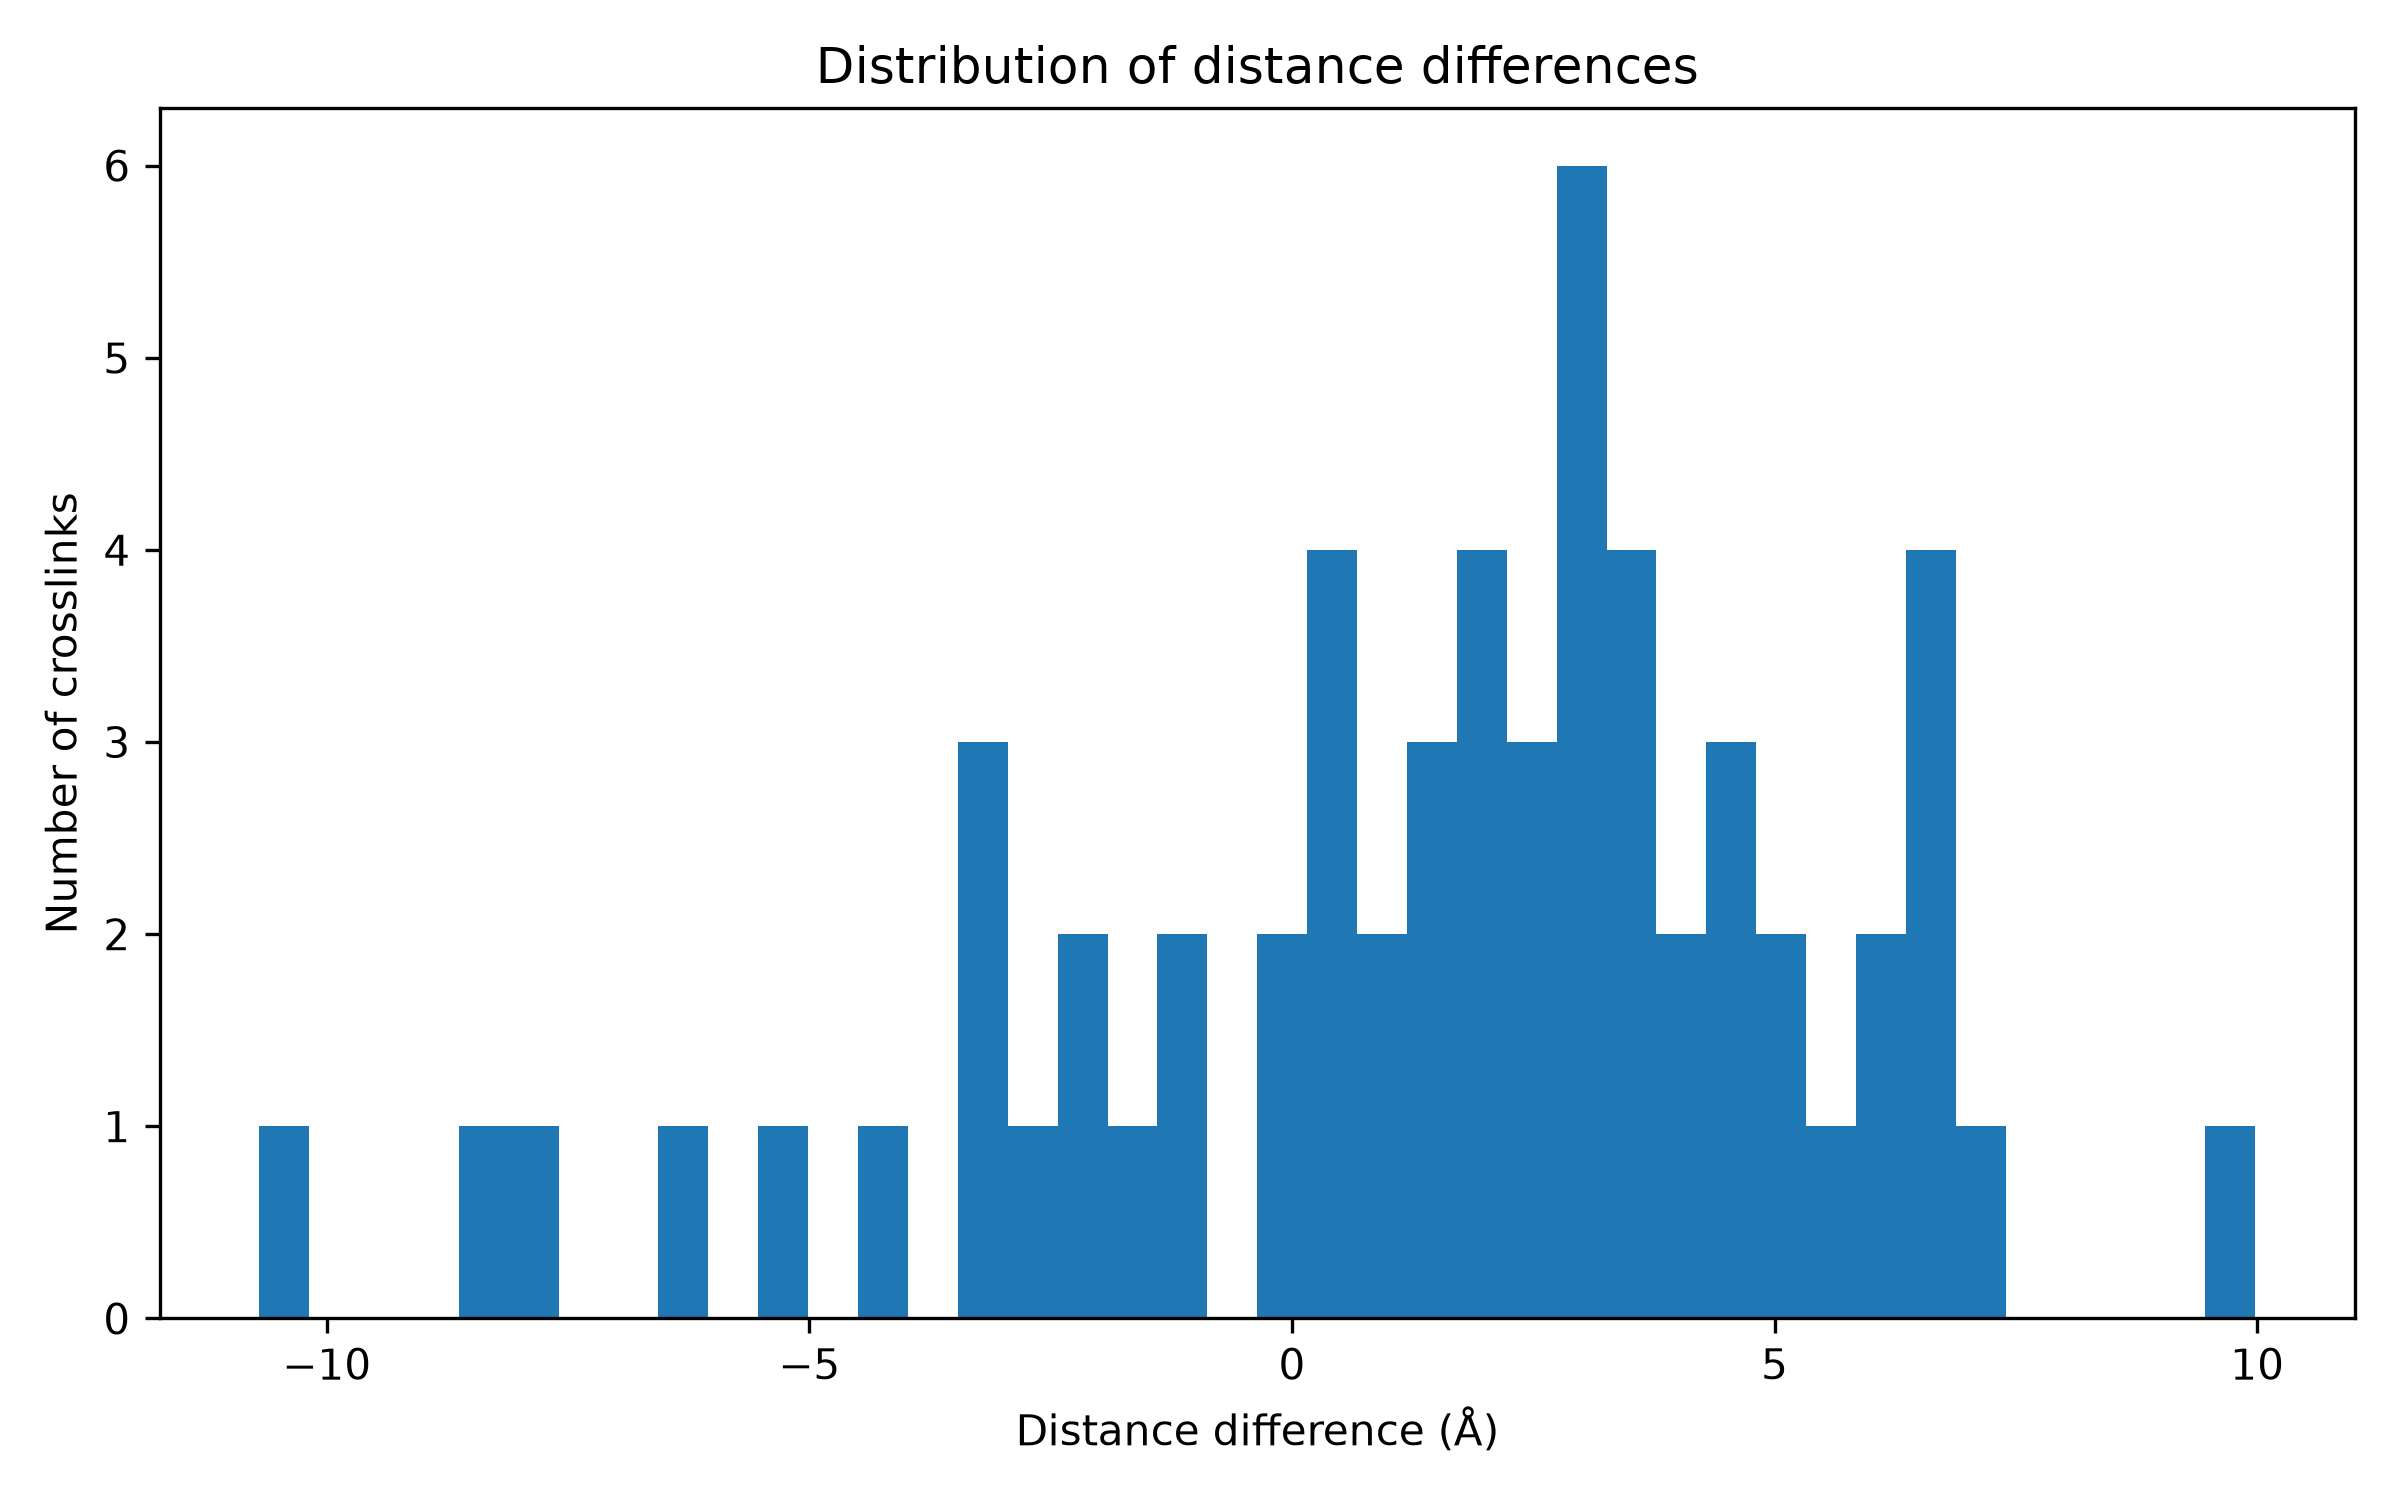
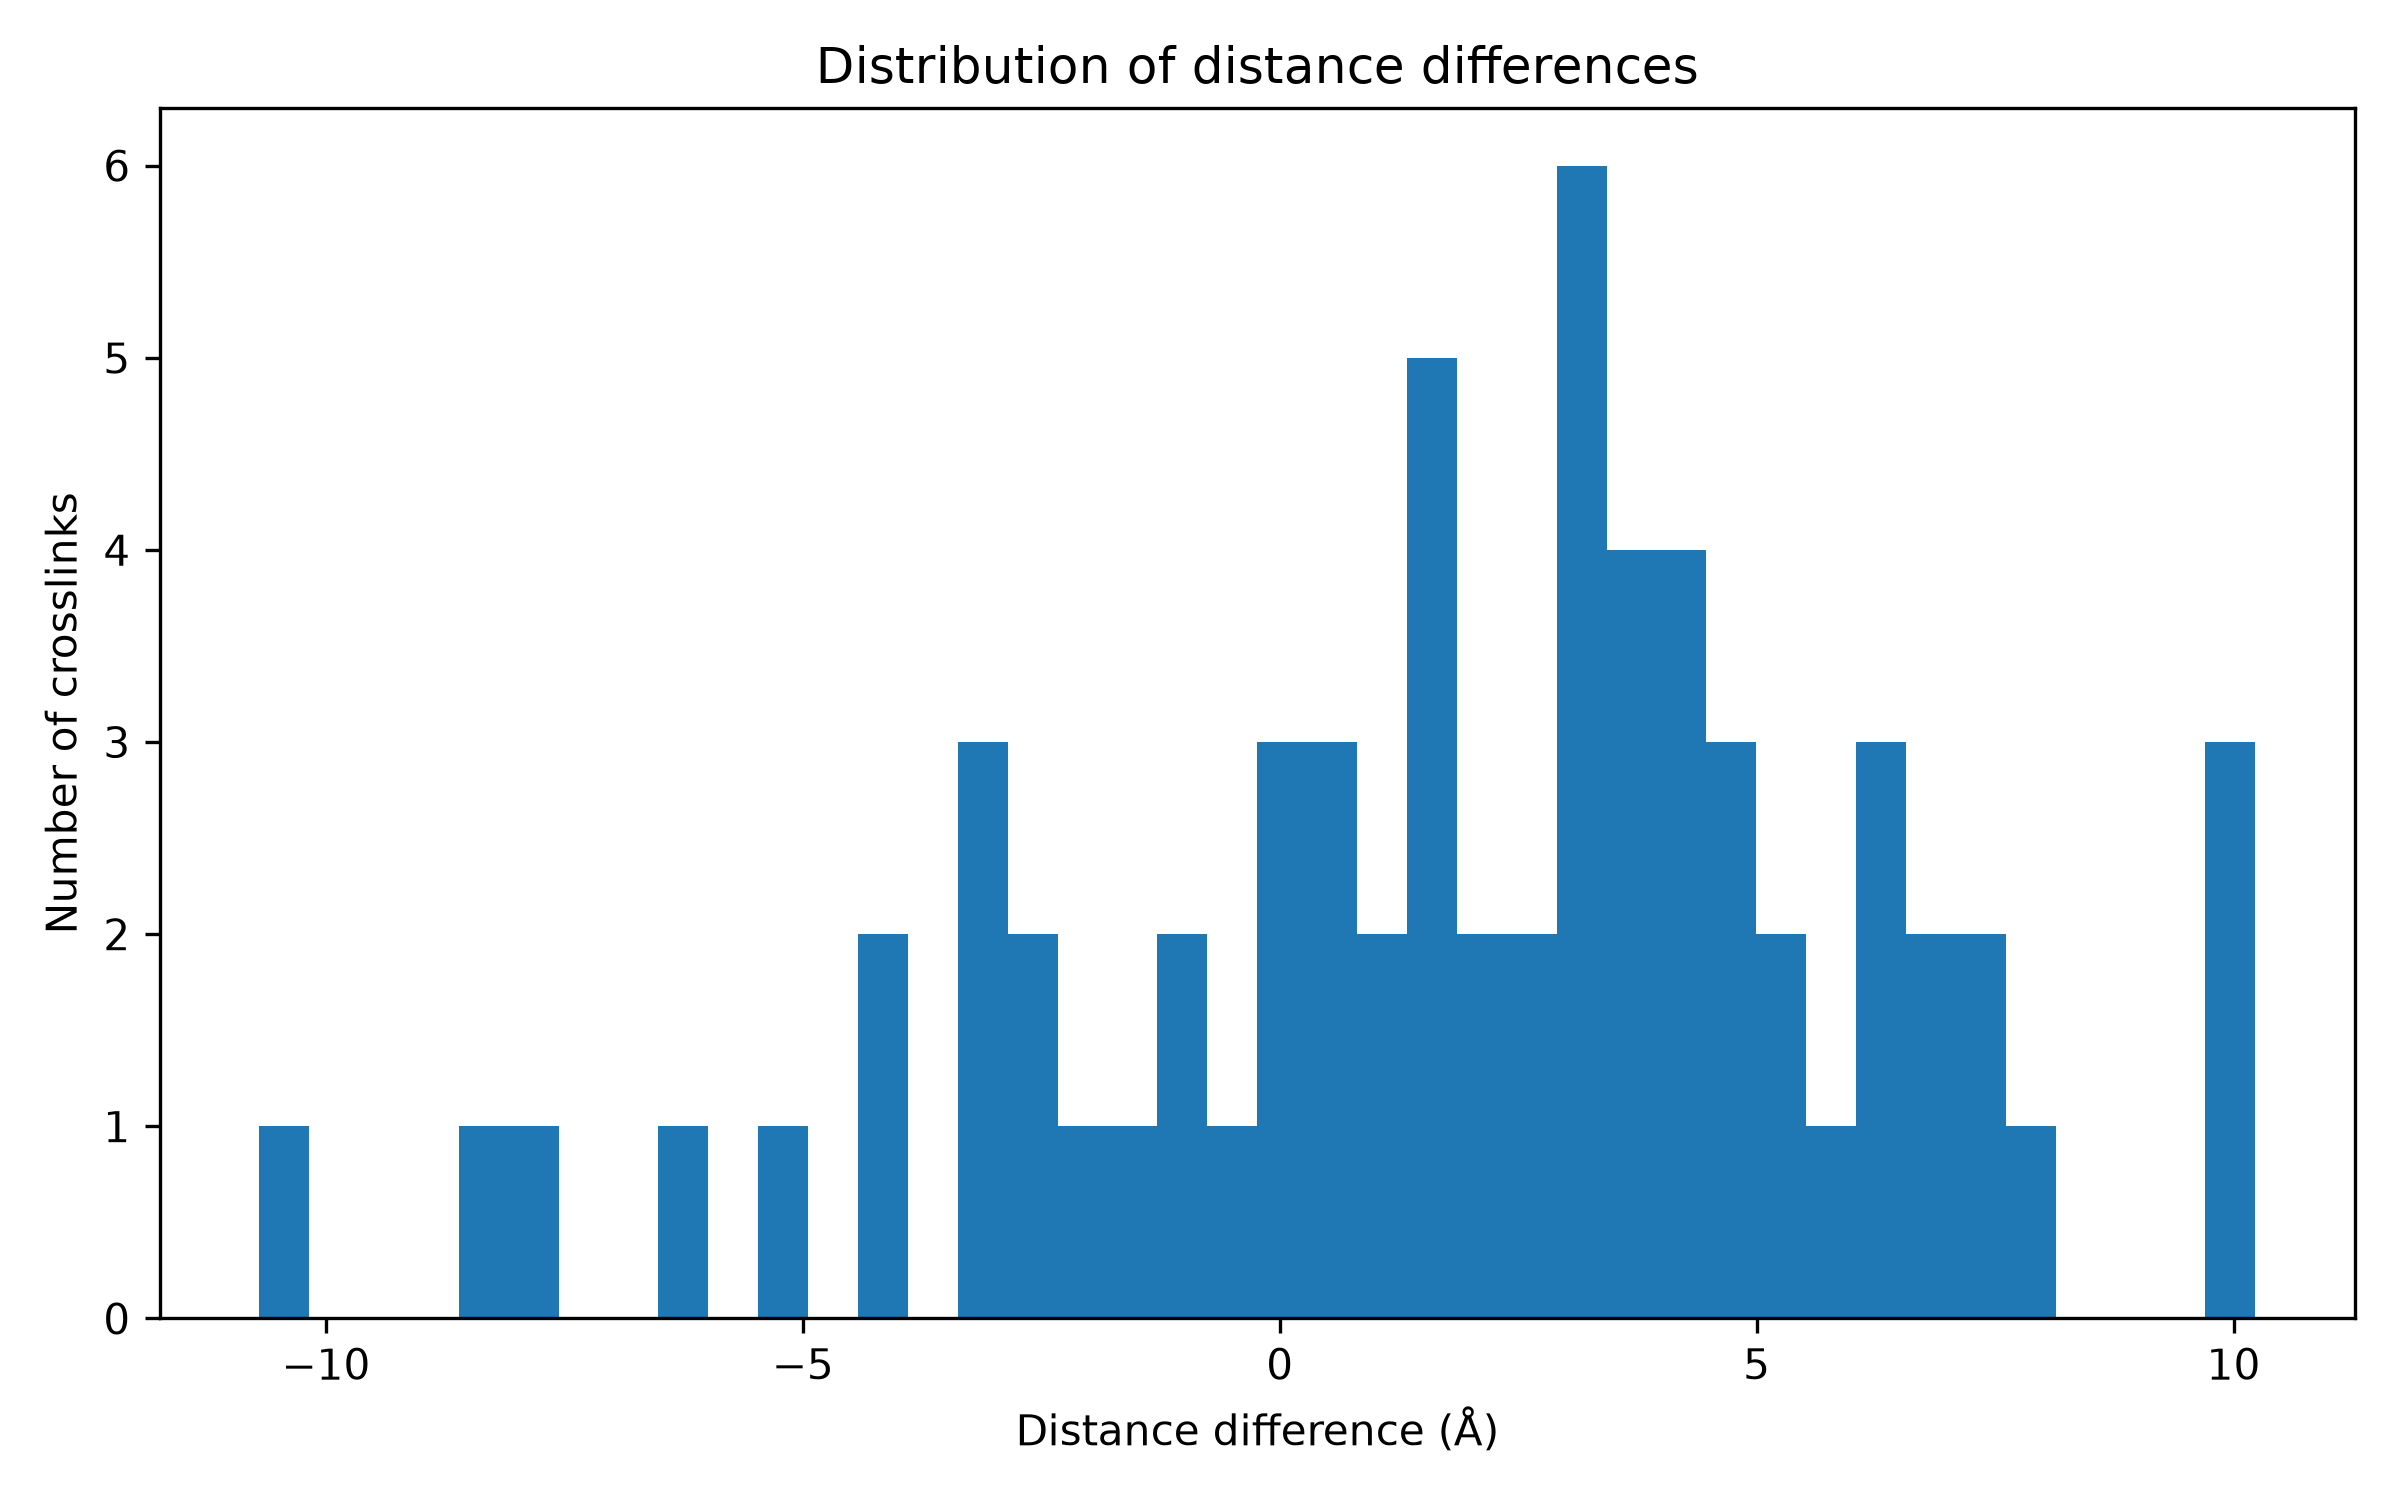
feat: polish compare validation function

diff --git a/analysis/analyse-cl-results.py b/analysis/analyse-cl-results.py
@@ -68,6 +68,28 @@ def main():
     analysis(expected_files, output_file)
 
 
+def merge_dfs(df_ca: pd.DataFrame, df_exact: pd.DataFrame) -> pd.DataFrame:
+    merge_columns = [
+        col
+        for col in df_ca.columns
+        if col not in {
+            "alphafold_distance",
+            "reactive_atom1",
+            "reactive_atom2",
+            "valid_crosslink",
+        }
+    ]
+
+    merged = df_ca.merge(
+        df_exact,
+        on=merge_columns,
+        suffixes=("_ca", "_exact"),
+        how="inner",
+    )
+
+    return merged 
+
+
 def compare_distances(files: dict, output_file: Path) -> None: 
     validation_criterion = input(
         f"Validation criterion {sorted(VALIDATION_CRITERIA)}: "
@@ -90,25 +112,10 @@ def compare_distances(files: dict, output_file: Path) -> None:
             print(f" - *_{key}")
         return None
     
-    df_CA = pd.read_csv(files[ca_key])
+    df_ca = pd.read_csv(files[ca_key])
     df_exact = pd.read_csv(files[exact_key])
 
-    merge_columns = [
-        col
-        for col in df_CA.columns
-        if col not in {
-            "alphafold_distance",
-            "reactive_atom1",
-            "reactive_atom2",
-        }
-    ]
-
-    merged = df_CA.merge(
-        df_exact,
-        on=merge_columns,
-        suffixes=("_ca", "_exact"),
-        how="inner",
-    )
+    merged = merge_dfs(df_ca, df_exact)
 
     merged["distance_difference"] = (
         merged["alphafold_distance_exact"]
@@ -227,23 +234,20 @@ def compare_validation(files: dict, output_file: Path) -> None:
         print(f"Validation criterion: {criterion}")
         print("=" * 60)
 
-        ca_df = pd.read_csv(file_ca)
-        exact_df = pd.read_csv(file_exact)
+        df_ca = pd.read_csv(file_ca)
+        df_exact = pd.read_csv(file_exact)
 
-        if len(ca_df) != len(exact_df):
-            raise ValueError(
-                f"{criterion}: CA and exact files have different lengths"
-            )
+        merged = merge_dfs(df_ca, df_exact)
 
         ca_valid = (
-            ca_df["valid_crosslink"]
+            merged["valid_crosslink_ca"]
             .astype(str)
             .str.lower()
             .eq("true")
         )
 
         exact_valid = (
-            exact_df["valid_crosslink"]
+            merged["valid_crosslink_exact"]
             .astype(str)
             .str.lower()
             .eq("true")
@@ -251,9 +255,7 @@ def compare_validation(files: dict, output_file: Path) -> None:
 
         confusion_matrix = pd.crosstab(
             ca_valid,
-            exact_valid,
-            rownames=["CA"],
-            colnames=["Exact"]
+            exact_valid
         )
 
         confusion_matrix = confusion_matrix.reindex(
@@ -261,6 +263,12 @@ def compare_validation(files: dict, output_file: Path) -> None:
             columns=[True, False],
             fill_value=0
         )
+
+        confusion_matrix.index = ["valid", "invalid"]
+        confusion_matrix.columns = ["valid", "invalid"]
+
+        confusion_matrix.index.name = "CA"
+        confusion_matrix.columns.name = "Exact"
 
         print("\nConfusion Matrix:")
         print(confusion_matrix)
@@ -281,6 +289,24 @@ def compare_validation(files: dict, output_file: Path) -> None:
             f"\nInvalid → Valid improvement: "
             f"{invalid_to_valid}/{originally_invalid} "
             f"({improvement:.2%})"
+        )
+
+        valid_to_invalid = (
+            (ca_valid) & (~exact_valid)
+        ).sum()
+
+        originally_valid = (ca_valid).sum()
+
+        deterioration = (
+            valid_to_invalid / originally_valid
+            if originally_valid > 0
+            else 0
+        )
+
+        print(
+            f"\nValid → Invalid deterioration: "
+            f"{valid_to_invalid}/{originally_valid} "
+            f"({deterioration:.2%})"
         )
 
 def compare_all_validation_methods(files: dict) -> pd.DataFrame:
